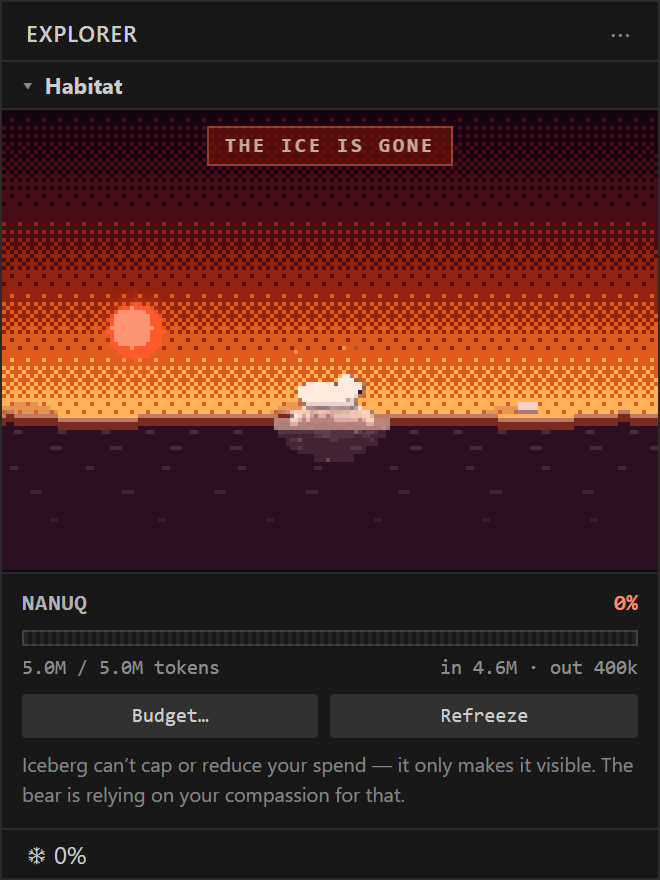
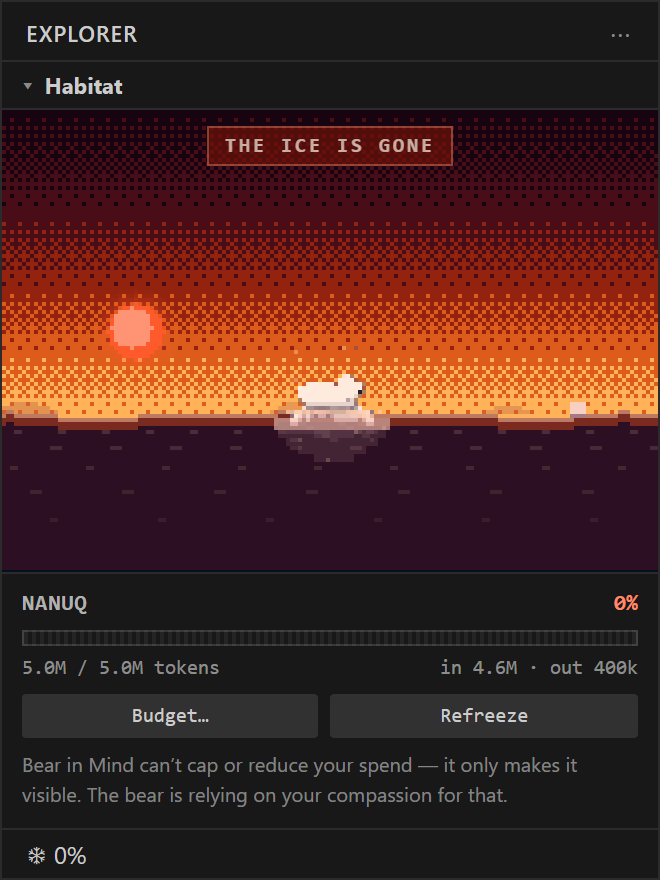
Finish the rename in the UI strings and screenshots
The rename changed the identity but left the extension still calling
itself Iceberg in the places a user actually reads. The sidebar note said
"Iceberg can't cap or reduce your spend", the status bar tooltip said
"**Iceberg** -- 62% ice remaining", the duplicate-install warning opened
"Iceberg is installed twice", and SECURITY.md introduced the project by
the old name.

That note is rendered into the generated screenshots, so docs/media was
stale too -- the committed PNGs still showed the old sentence. Updated
tools/shot.html alongside src/habitatView.ts so the two cannot drift, and
regenerated. melt.gif is canvas-only and unaffected.

Kept as Iceberg: the `Iceberg:` command titles, the Habitat view, the
editor tab, and the `Iceberg` output channel. Those name the thing on
screen rather than the product, they match the `iceberg.*` ids that have
to stay put for the duplicate-install guard, and leaving them keeps the
screenshots honest.

Version stays 0.4.0 -- it was never tagged, so this is the same
unreleased change rather than a follow-up.

Copilot-Session: 13d27e50-536a-451d-81c2-a2a8c29e5ef3

Changed region(s): [[0.0303, 0.8591, 0.9697, 0.9205], [0.8485, 0.4602, 0.9091, 0.4909], [0.7879, 0.4602, 0.8182, 0.4909]]

diff --git a/src/extension.ts b/src/extension.ts
@@ -63,7 +63,7 @@ export function activate(context: vscode.ExtensionContext): IcebergApi {
     status.text = `$(snowflake) ${pct}%`;
     status.tooltip = new vscode.MarkdownString(
       [
-        `**Iceberg** — ${pct}% ice remaining`,
+        `**Bear in Mind** — ${pct}% ice remaining`,
         '',
         `- Used: \`${fmt(s.total)}\` / \`${fmt(s.budget)}\` tokens`,
         `- Input: \`${fmt(s.input)}\` · Output: \`${fmt(s.output)}\``,
@@ -309,7 +309,7 @@ function standDown(
   const uninstall = `Uninstall ${other}`;
   void vscode.window
     .showErrorMessage(
-      `Iceberg is installed twice — as ${context.extension?.id ?? 'this copy'} and as ${other}. ` +
+      `Bear in Mind is installed twice — as ${context.extension?.id ?? 'this copy'} and as ${other}. ` +
         'Both claim the same view and commands, so the menus are duplicated and the ' +
         'token count is split between them. Uninstall the older copy and reload.',
       uninstall,

diff --git a/src/habitatView.ts b/src/habitatView.ts
@@ -86,7 +86,7 @@ class HabitatHost implements vscode.Disposable {
       <button id="btnBudget" type="button" title="Change the token budget">Budget…</button>
       <button id="btnReset" type="button" title="Reset usage and refreeze the iceberg">Refreeze</button>
     </div>
-    <p class="note">Iceberg can’t cap or reduce your spend — it only makes it visible. The bear is relying on your compassion for that.</p>
+    <p class="note">Bear in Mind can’t cap or reduce your spend — it only makes it visible. The bear is relying on your compassion for that.</p>
   </div>
   <script nonce="${nonce}" src="${script}"></script>
 </body>

diff --git a/tools/shot.html b/tools/shot.html
@@ -89,7 +89,7 @@
           <button id="btnBudget" type="button">Budget&hellip;</button>
           <button id="btnReset" type="button">Refreeze</button>
         </div>
-        <p class="note">Iceberg can&rsquo;t cap or reduce your spend &mdash; it only makes it visible. The bear is relying on your compassion for that.</p>
+        <p class="note">Bear in Mind can&rsquo;t cap or reduce your spend &mdash; it only makes it visible. The bear is relying on your compassion for that.</p>
       </div>
     </div>
     <div id="statusbar"><span id="sb">&#10052; 100%</span></div>

diff --git a/media/main.js b/media/main.js
@@ -1,5 +1,5 @@
 // @ts-check
-/* Iceberg — pixel-art renderer.
+/* Bear in Mind — pixel-art renderer.
  * Everything is drawn at a small internal resolution (roughly 200px wide) and
  * blown up with nearest-neighbour scaling, so every pixel stays a hard square.
  */

diff --git a/README.md b/README.md
@@ -88,7 +88,7 @@ VS Code records the exact per-request counters (`promptTokens`,
 <user-data>/User/workspaceStorage/<id>/chatSessions/*.jsonl
 ```
 
-Iceberg tails those append-only logs and charges the numbers Copilot itself
+Bear in Mind tails those append-only logs and charges the numbers Copilot itself
 reported. No estimating, no tokenizer guesswork. This is the mechanism because
 there is no VS Code API that lets one extension observe another's language-model
 traffic — if you know of one, please open an issue.
@@ -124,8 +124,8 @@ traffic — if you know of one, please open an issue.
 Reporting from another extension:
 
 ```ts
-const iceberg = vscode.extensions.getExtension('obrocki.bear-in-mind');
-const api = await iceberg?.activate();
+const bear = vscode.extensions.getExtension('obrocki.bear-in-mind');
+const api = await bear?.activate();
 
 api?.reportUsage({ input: 1843, output: 512 });
 api?.onDidChangeUsage((s) => console.log(s.health)); // 1 = pristine, 0 = melted

diff --git a/CHANGELOG.md b/CHANGELOG.md
@@ -6,6 +6,11 @@
   `github.com/obrocki/bear-in-mind` (the old URL redirects) and the extension id
   changed from `obrocki.iceberg-copilot` to `obrocki.bear-in-mind`. The name is
   the product: there is no enforcement here, only a bear you might bear in mind.
+  Everywhere the extension referred to *itself* now says Bear in Mind — the
+  status bar tooltip, the panel's "can't cap your spend" note, the
+  duplicate-install warning, and the docs. Screenshots were regenerated to
+  match. Things that name the *iceberg on screen* keep their names: the
+  `Iceberg:` commands, the Habitat view, the `Iceberg` output channel.
 - **Your settings and keybindings are unaffected.** The `iceberg.*` setting,
   command and view ids were deliberately *not* renamed. Two reasons: renaming
   them would silently reset everyone's configuration, and the duplicate-install

diff --git a/SECURITY.md b/SECURITY.md
@@ -6,7 +6,7 @@ The latest released version is the only one that receives fixes.
 
 ## What this extension touches
 
-Iceberg is a visualisation, but it does read files, so it is worth being
+Bear in Mind is a visualisation, but it does read files, so it is worth being
 explicit about what it does and does not do:
 
 - **It reads VS Code's own chat transcripts.** To meter Copilot Chat usage it
